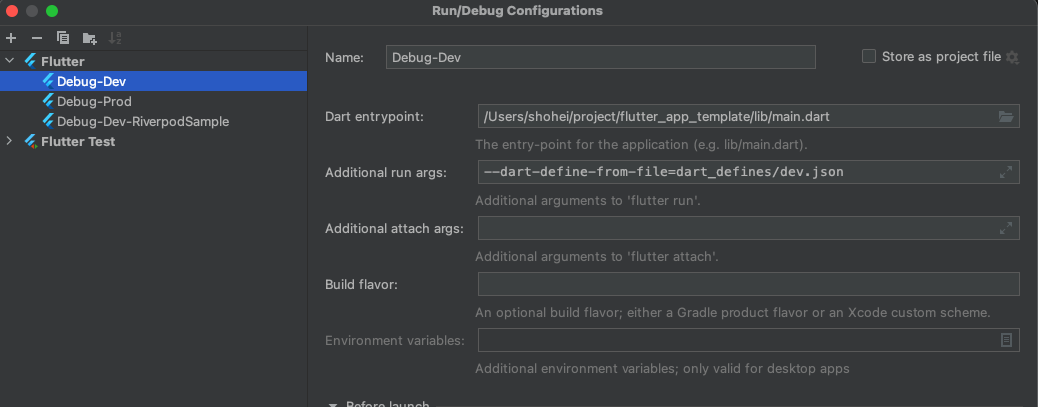
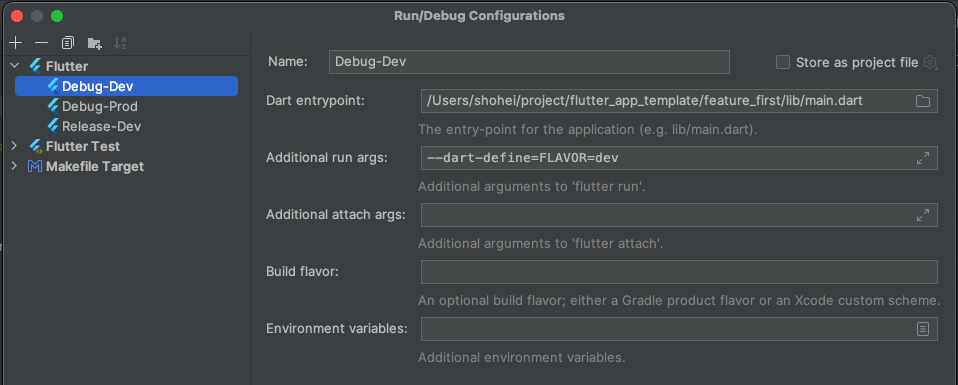
support android

diff --git a/feature_first/lib/core/utils/flavor.dart b/feature_first/lib/core/utils/flavor.dart
@@ -7,7 +7,7 @@ class Flavor {
   Flavor._();
 
   static FlavorType get environment {
-    const flavor = String.fromEnvironment('flavor');
+    const flavor = String.fromEnvironment('FLAVOR');
     if (flavor == 'dev') {
       return FlavorType.dev;
     } else if (flavor == 'prod') {
